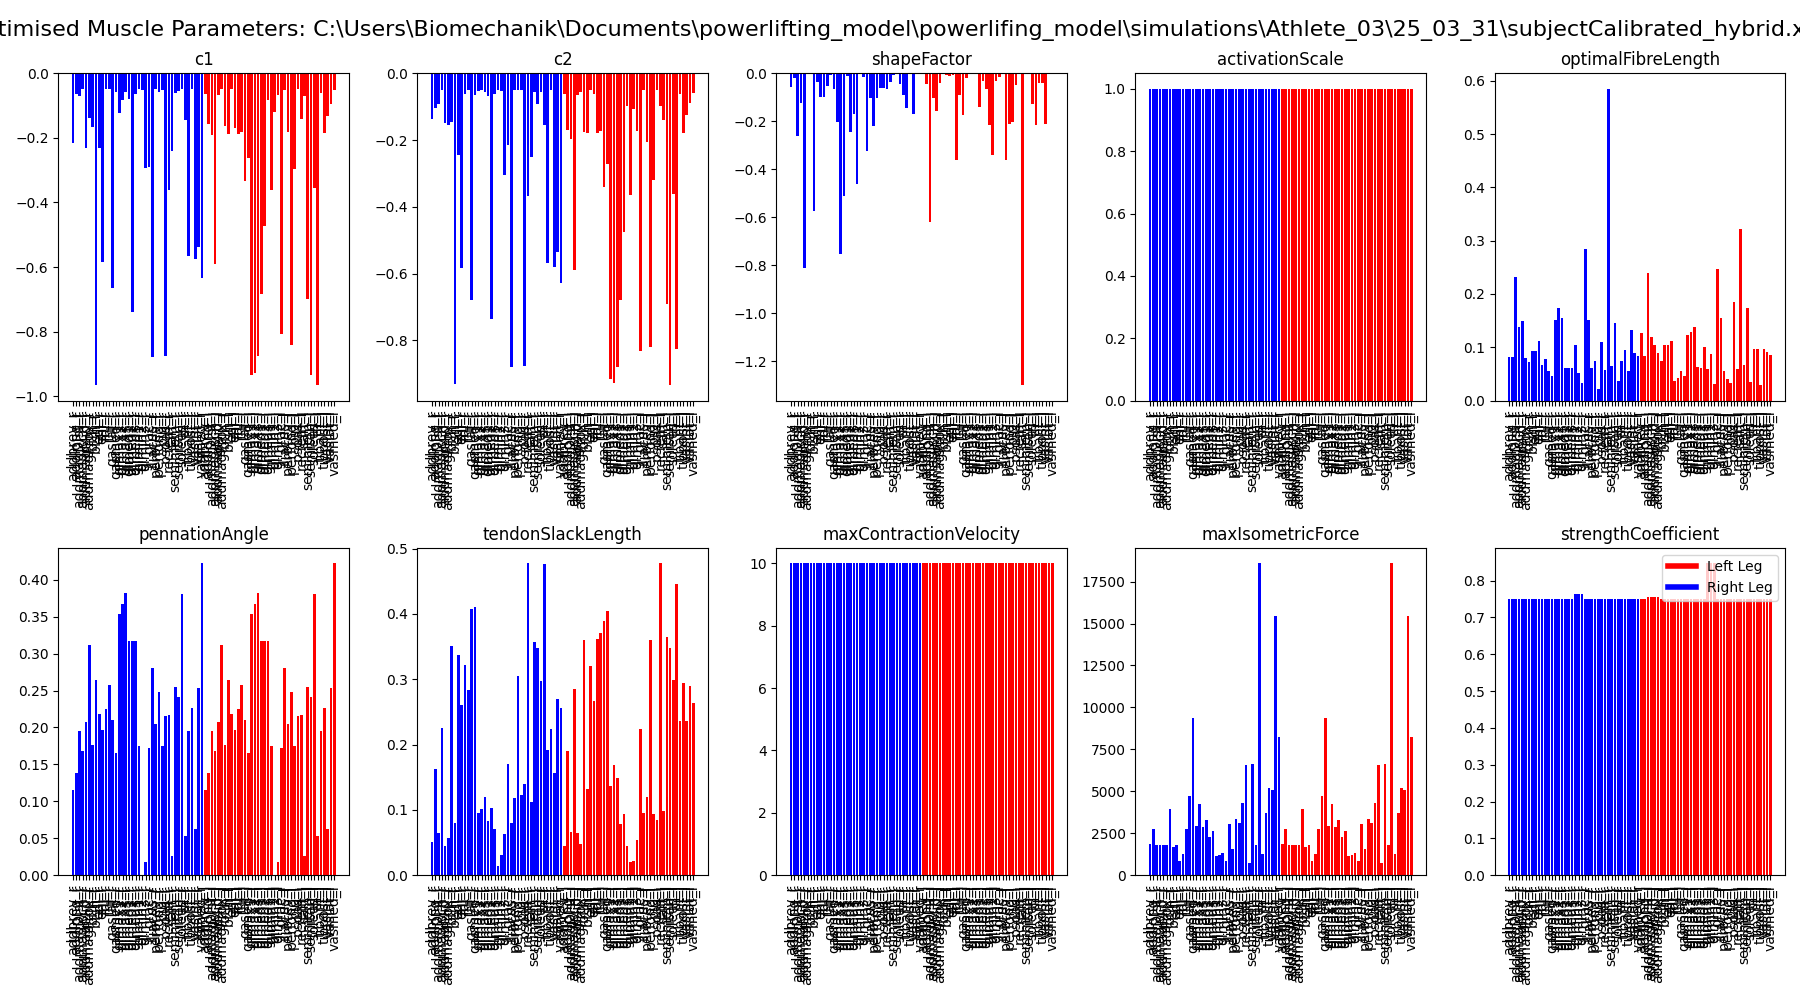
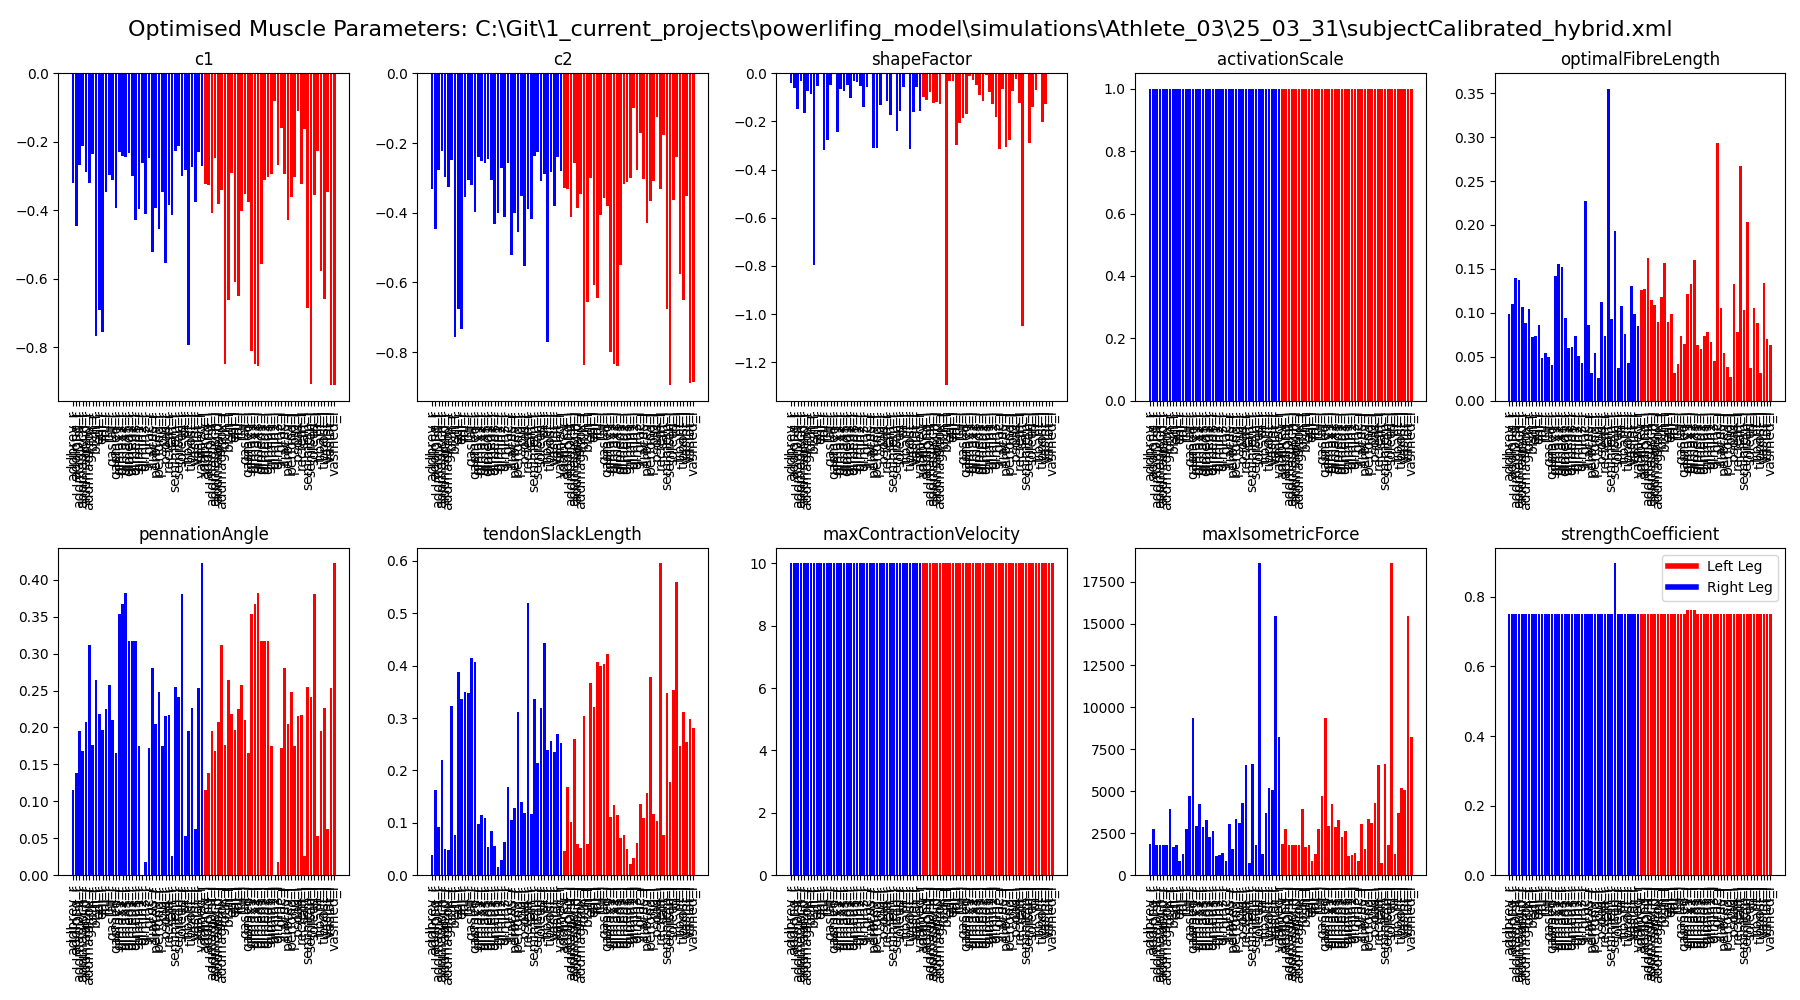
[PLOTS] results execution squat_bar_01 (NOT GOOD)

diff --git a/code/ceinms.py b/code/ceinms.py
@@ -758,33 +758,90 @@ def plot_emg_vs_ceimns(emgFile=None, ceinmsExcitationsFile=None):
 
     emg_data = utils.load_any_data_file(emgFile)
     ceinms_data = utils.load_any_data_file(ceinmsExcitationsFile)
+    
+    # time normalise both datasets to the same length
+    emg_data = utils.time_normalise_df(emg_data)
+    ceinms_data = utils.time_normalise_df(ceinms_data)
 
     muscle_names = [col for col in emg_data.columns if col != 'time']
     
     emg_mapping = settings.EMG_muscle_mapping
 
-    n_muscles = len(muscle_names)
+    n_muscles = len(emg_mapping)
     fig, axs = plt.subplots(n_muscles, 1, figsize=(10, n_muscles*3))
     plt.suptitle(f'EMG vs CEINMS Excitations', fontsize=16)
     
     for i, (signal, muscles) in enumerate(emg_mapping.items()):
         ax = axs[i] if n_muscles > 1 else axs
+        line_emg = ax.plot(emg_data[signal], label=signal, color='blue')
+        lines_ceinms = []
         for muscle in muscles:
             if muscle in ceinms_data.columns:
-                ax.plot(emg_data['time'], emg_data[muscle], label='EMG', color='blue')
-                ax.plot(ceinms_data['time'], ceinms_data[muscle], label='CEINMS Excitation', color='red')
-                ax.set_title(f'Muscle: {muscle}')
-            ax.set_xlabel('Time (s)')
-            ax.set_ylabel('Excitation')
-            ax.legend()
-        else:
-            print(f"Muscle {muscle} not found in CEINMS excitations data.")
+                r2 = utils.rsquared(emg_data[signal], ceinms_data[muscle])
+                rmse = utils.rmse(emg_data[signal], ceinms_data[muscle])
+                lines_ceinms.append(ax.plot(ceinms_data[muscle], label=f'{muscle} (R²: {r2:.2f}, RMSE: {rmse:.2f})', color='red'))
+                ax.set_ylabel('Excitation')
+                if i < n_muscles - 1:
+                    ax.set_xticklabels([])
+                else:
+                    ax.set_xlabel('Time (%)')
+            else:
+                print(f"Muscle {muscle} not found in CEINMS excitations data.")
+        
+        # legend with all lines
+        handles = [line_emg[0]] + [line[0] for line in lines_ceinms]
+        labels = [signal] + [f'{muscle} (R²: {utils.rsquared(emg_data[signal], ceinms_data[muscle]):.2f}, RMSE: {utils.rmse(emg_data[signal], ceinms_data[muscle]):.2f})' for muscle in muscles if muscle in ceinms_data.columns]
+        ax.legend(handles, labels)
     
     # save figure
-    fig_path = os.path.join(os.path.dirname(emgFile), 'emg_vs_ceinms_excitations.png')
+    ext = os.path.splitext(ceinmsExcitationsFile)[1]
+    fig_path = ceinmsExcitationsFile.replace(ext, 'vs_emg.png')
     plt.savefig(fig_path)
     print(f"EMG vs CEINMS excitations plot saved to: {fig_path}")
     plt.close()
+
+def plot_moments_vs_ceinms(externalMomentsFile=None, ceinmsTorquesFile=None):
+
+    if not externalMomentsFile:
+        externalMomentsFile = input("Enter path to external moments data file: ").strip('"')
+
+    if not ceinmsTorquesFile:
+        ceinmsTorquesFile = input("Enter path to CEINMS torques data file: ").strip('"')
+
+    ext_moments_data = utils.load_any_data_file(externalMomentsFile)
+    ceinms_torques_data = utils.load_any_data_file(ceinmsTorquesFile)
+
+    # time normalise both datasets to the same length
+    ext_moments_data = utils.time_normalise_df(ext_moments_data)
+    ceinms_torques_data = utils.time_normalise_df(ceinms_torques_data)
+
+    dof_names = [col for col in ceinms_torques_data.columns if col != 'time']
+    
+    n_dofs = len(dof_names)
+    fig, axs = plt.subplots(n_dofs, 1, figsize=(10, n_dofs*3))
+    plt.suptitle(f'External Torques vs CEINMS Torques', fontsize=16)
+
+    for i, dof in enumerate(dof_names):
+        ax = axs[i] if n_dofs > 1 else axs
+        r2 = utils.rsquared(ext_moments_data[dof + '_moment'], ceinms_torques_data[dof])
+        rmse = utils.rmse(ext_moments_data[dof + '_moment'], ceinms_torques_data[dof])
+        line_ext = ax.plot(ext_moments_data[dof + '_moment'], label=f'External Moment', color='blue')
+        line_cei = ax.plot(ceinms_torques_data[dof], label=f'CEINMS Torque (R²: {r2:.2f}, RMSE: {rmse:.2f})', color='red')
+        ax.set_title(f'{dof}')
+        ax.set_ylabel('Moment (Nm)')
+        if i < n_dofs - 1:
+            ax.set_xticklabels([])
+        else:
+            ax.set_xlabel('Time (%)')
+        ax.legend()
+    
+    # save figure
+    ext = os.path.splitext(ceinmsTorquesFile)[1]
+    fig_path = ceinmsTorquesFile.replace(ext, 'vs_external_torques.png')
+    plt.savefig(fig_path)
+    print(f"External torques vs CEINMS torques plot saved to: {fig_path}")
+    plt.close()
+
 
 if __name__ == "__main__":
     
@@ -804,5 +861,4 @@ if __name__ == "__main__":
         except Exception as e:
             print(f"Error executing {command}: {e}")
         
-        break
         

diff --git a/code/utils.py b/code/utils.py
@@ -1743,7 +1743,8 @@ def time_normalise_df(df, fs=''):
     
     if not fs:
         try:
-            fs = 1/(df['time'][1]-df['time'][0])
+            # mean sampling frequency over the time column
+            fs = 1/((df['time'].iloc[-1]-df['time'].iloc[0])/(len(df)-1))
         except  KeyError as e:
             raise Exception('Input DataFrame must contain a column named "time"')
     
@@ -1826,6 +1827,27 @@ def create_color_and_style_dict(labels):
         else:
             style_dict[label] = '-'
     return color_dict, style_dict
+
+def rsquared(y_true, y_pred):
+    """Calculate the R-squared value between true and predicted values.
+    
+    Args:
+        y_true (array-like): The true values.
+        y_pred (array-like): The predicted values.
+    """
+    ss_res = np.sum((y_true - y_pred) ** 2)
+    ss_tot = np.sum((y_true - np.mean(y_true)) ** 2)
+    r2 = 1 - (ss_res / ss_tot)
+    return r2
+
+def rmse(y_true, y_pred):
+    """Calculate the Root Mean Square Error (RMSE) between true and predicted values.
+    
+    Args:
+        y_true (array-like): The true values.
+        y_pred (array-like): The predicted values.
+    """
+    return np.sqrt(np.mean((y_true - y_pred) ** 2))    
 
 # dir manipulation
 def rename_all_files_in_dir(dir_path, old_str, new_str):

diff --git a/code/settings.py b/code/settings.py
@@ -7,7 +7,7 @@ TRIALS_TO_ANALYSE =  ['Walking_01'] # [Squat_bw_01,'sq_80','sq_90','dl_70','dl_7
 
 CEINMS_CALIBRATION_TRIALS = TRIALS_TO_ANALYSE[0:1]
 
-MODEL_NAME = 'scaled_increasedForce3.osim'
+MODEL_NAME = 'scaled.osim'
 
 # Check local location of this module
 MODULE_DIR = os.path.dirname(__file__)
